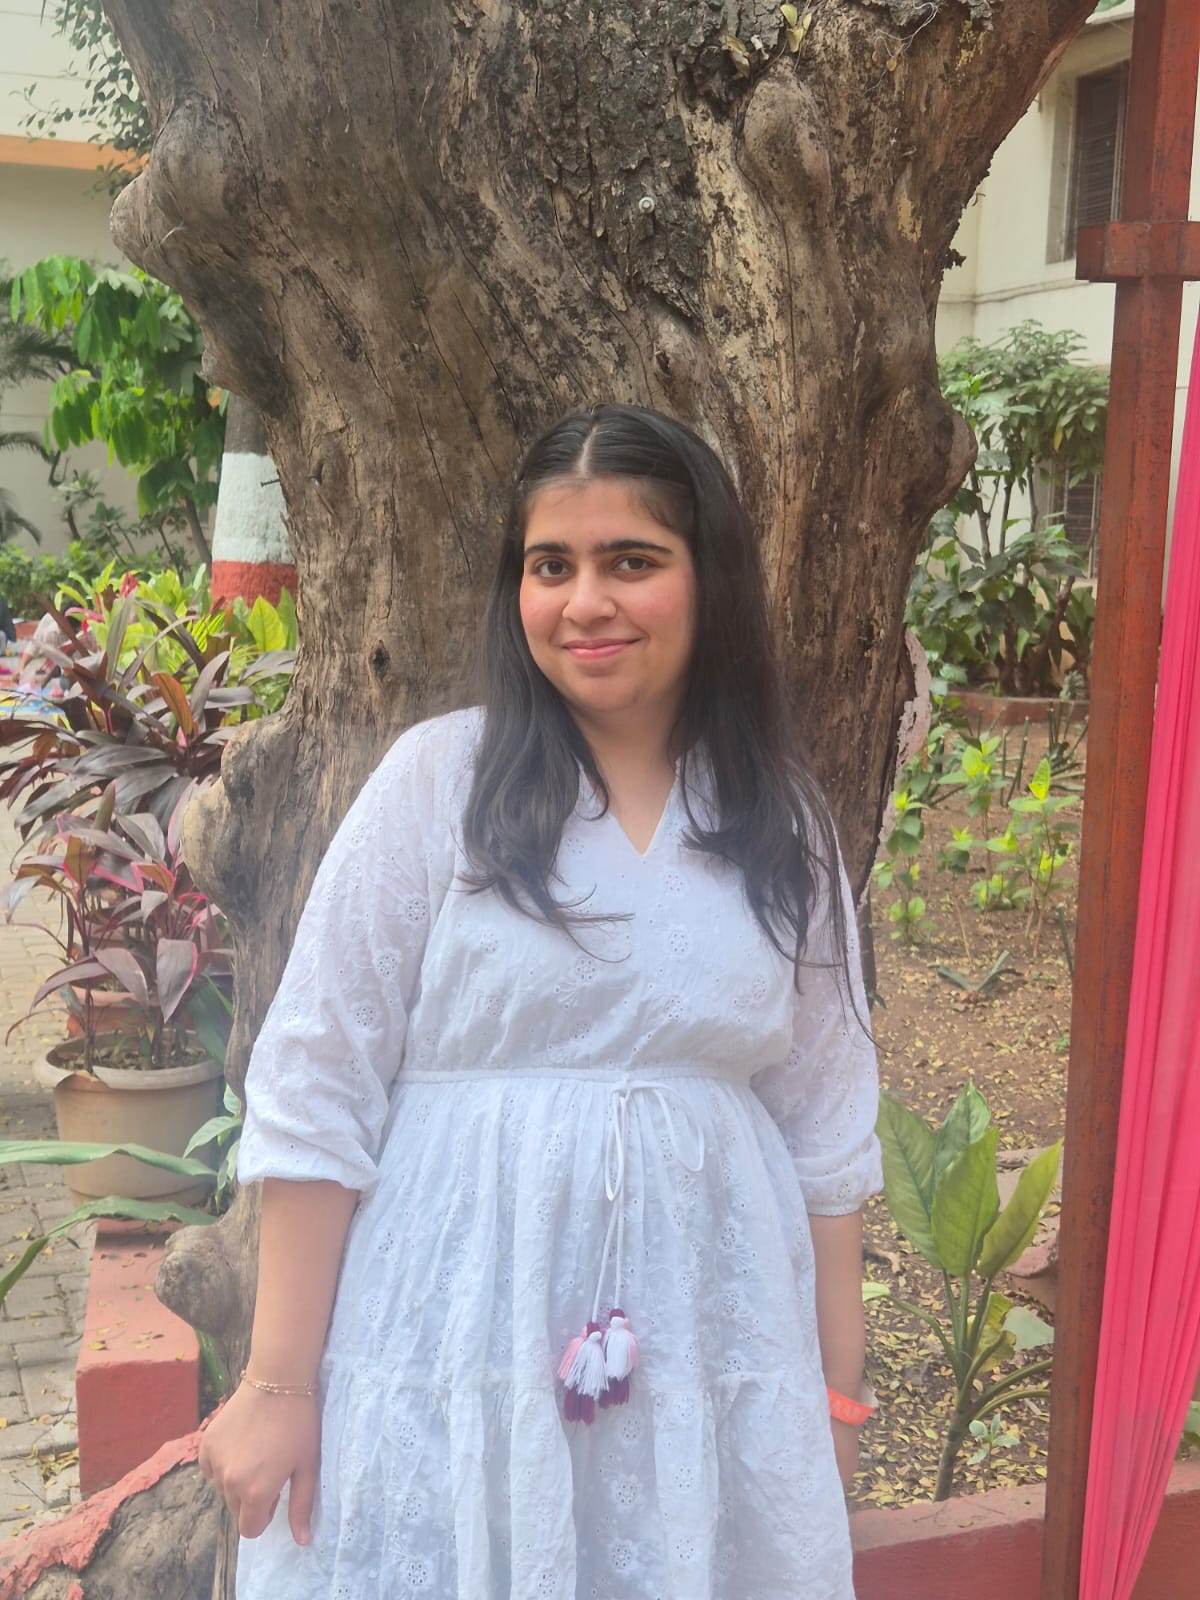
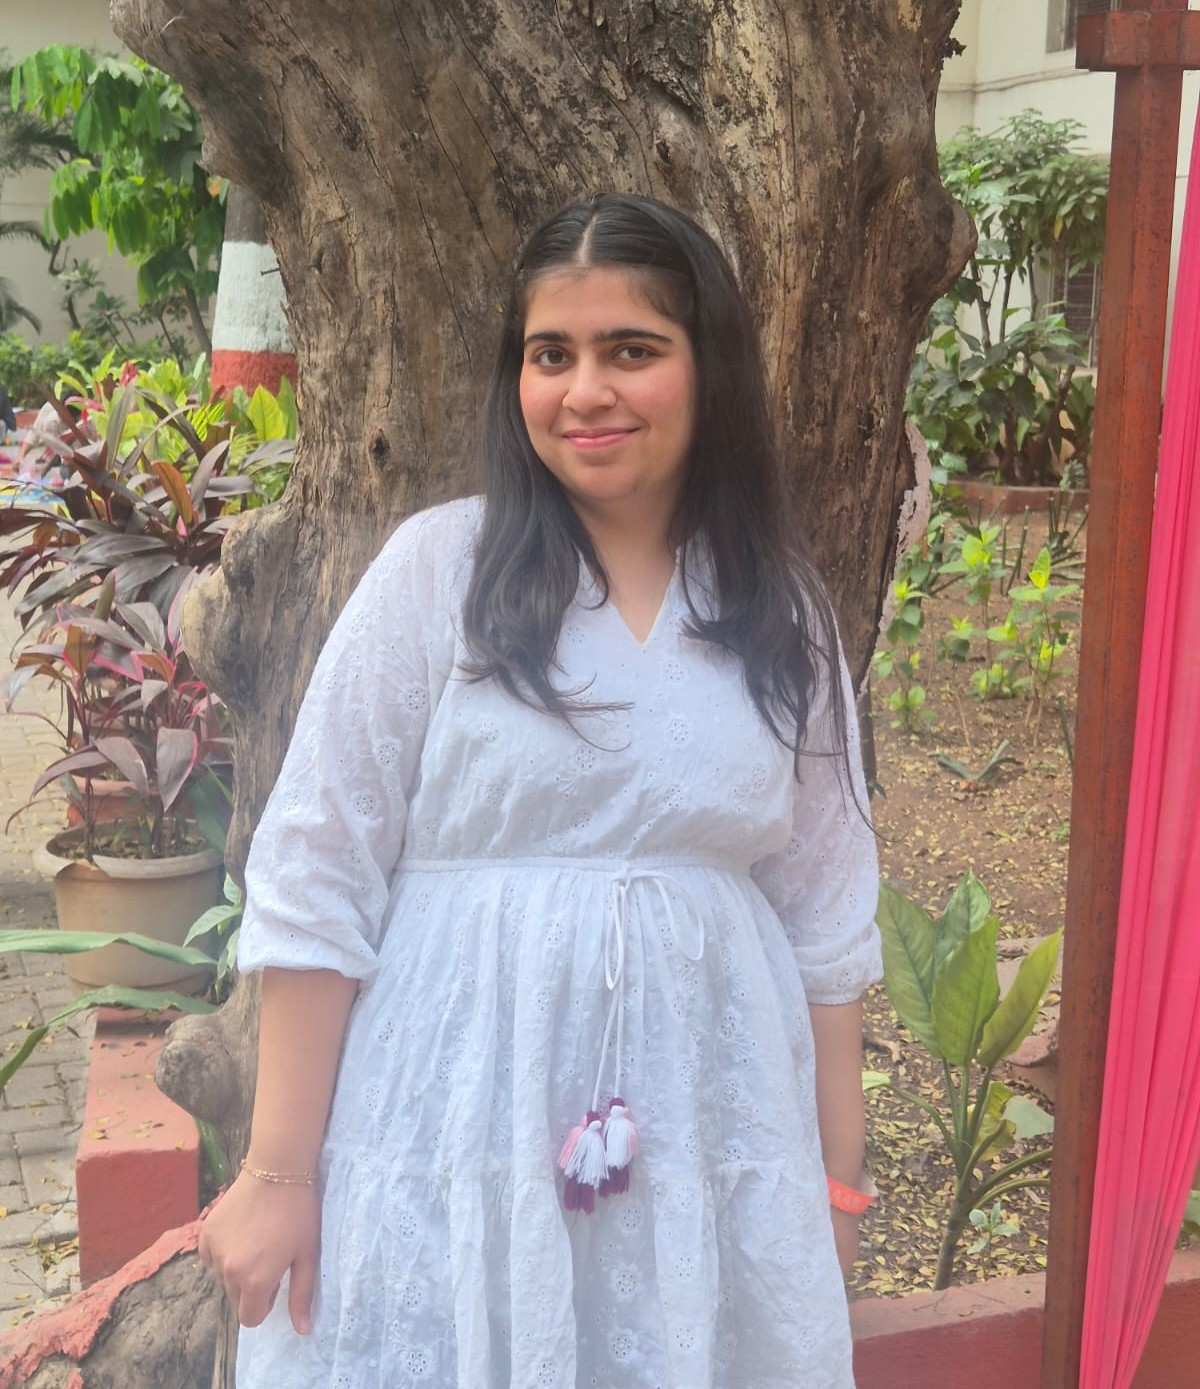
Updated team photos and minor font change

diff --git a/src/components/team/team-data.js b/src/components/team/team-data.js
@@ -101,7 +101,7 @@ export const developmentTeam = [
     id: 4,
     name: "Rucha Umbrajkar",
     role: "Developer",
-    imageUrl: "/src/assets/team/ruchaumbrajkar.jpeg",
+    imageUrl: "/src/assets/team/ruchaumbrajkar.png",
     instagram: "https://www.instagram.com/umbrajkarrucha?igsh=aTJucHRjNzl5dHZv",
     linkedin: "https://www.linkedin.com/in/rucha-umbrajkar-6b7661287",
     github: "",
@@ -123,10 +123,19 @@ export const developmentTeam = [
     instagram: "https://www.instagram.com/sam_mu7777/",
     linkedin: "https://www.linkedin.com/in/samruddhi-dargode-450573219/",
     github: "",
+    objectPosition: "center top",
   },
-  // Other Developers
   {
     id: 7,
+    name: "Sanika Kavade",
+    role: "Developer",
+    imageUrl: "/src/assets/team/sanikakavade.jpeg",
+    instagram: "https://www.instagram.com/sanika_k_15?igsh=OWFhM3h0cHNrNmpx",
+    linkedin: "https://www.linkedin.com/in/sanika-kavade-089334273?utm_source=share&utm_campaign=share_via&utm_content=profile&utm_medium=android_app",
+    github: "",
+  },
+  {
+    id: 8,
     name: "Vedika Kayangude",
     role: "Developer",
     imageUrl: "/src/assets/team/vedikakayangude.jpg",
@@ -135,7 +144,7 @@ export const developmentTeam = [
     github: "",
   },
   {
-    id: 8,
+    id: 9,
     name: "Anushka Ahirrao",
     role: "Developer",
     imageUrl: "/src/assets/team/anushkaahirrao.jpg",
@@ -144,7 +153,7 @@ export const developmentTeam = [
     github: "",
   },
   {
-    id: 9,
+    id: 10,
     name: "Richa Rathi",
     role: "Developer",
     imageUrl: "/src/assets/team/richarathi.jpeg",
@@ -153,7 +162,7 @@ export const developmentTeam = [
     github: "",
   },
   {
-    id: 10,
+    id: 11,
     name: "Shruti Bhavsar",
     role: "Developer",
     imageUrl: "/src/assets/team/shrutibhavsar.jpg",
@@ -162,21 +171,12 @@ export const developmentTeam = [
     github: "",
   },
   {
-    id: 11,
+    id: 12,
     name: "Mayuri Dandekar",
     role: "Developer",
     imageUrl: "/src/assets/team/mayuridandekar.jpeg",
     instagram: "https://www.instagram.com/mayxuri/",
     linkedin: "https://www.linkedin.com/in/mayuri-dandekar-2a37ba299",
-    github: "",
-  },
-  {
-    id: 12,
-    name: "Sanika Kavade",
-    role: "Developer",
-    imageUrl: "/src/assets/team/sanikakavade.jpeg",
-    instagram: "https://www.instagram.com/sanika_k_15?igsh=OWFhM3h0cHNrNmpx",
-    linkedin: "https://www.linkedin.com/in/sanika-kavade-089334273?utm_source=share&utm_campaign=share_via&utm_content=profile&utm_medium=android_app",
     github: "",
   },
   {
@@ -202,11 +202,10 @@ export const developmentTeam = [
     id: 15,
     name: "Radha Kulkarni",
     role: "Designer",
-    imageUrl: "/src/assets/team/radhakulkarni.jpg",
+    imageUrl: "/src/assets/team/radhakulkarni.png",
     instagram: "https://www.instagram.com/radhask_7?igsh=YzNwejE4aHo2ZHFj",
     linkedin: "https://www.linkedin.com/in/radha-kulkarni-291127338?utm_source=share&utm_campaign=share_via&utm_content=profile&utm_medium=android_app",
-    github: "",
-  },
+    github: "",    objectPosition: "center top",  },
   {
     id: 16,
     name: "Harshada Dhas",

diff --git a/src/components/team/MemberCard.jsx b/src/components/team/MemberCard.jsx
@@ -38,6 +38,7 @@ export default function MemberCard({ member, index, variant = "large" }) {
         <img
           src={member.imageUrl}
           alt={member.name}
+          style={{ objectPosition: member.objectPosition || 'center' }}
           className="w-full h-full object-cover grayscale group-hover:grayscale-0 transition-all duration-500 scale-100 group-hover:scale-105"
         />
 
@@ -46,7 +47,7 @@ export default function MemberCard({ member, index, variant = "large" }) {
           {/* Role badge */}
           <div className="flex items-center gap-2 mb-2">
             <div className="h-[2px] w-8 bg-primary shadow-[0_0_10px_#0FB9B1]" />
-            <span className="text-primary font-mono text-xs tracking-[0.2em] uppercase">
+            <span className="text-primary font-mono text-xs tracking-[0.2em] uppercase font-bold">
               {member.role}
             </span>
           </div>

diff --git a/src/pages/team.jsx b/src/pages/team.jsx
@@ -43,7 +43,7 @@ export default function Team() {
               <div className="h-[1px] w-16 bg-gradient-to-l from-transparent to-primary" />
             </div>
             <p className="text-muted-foreground text-sm font-mono tracking-wider">
-              // CORE_SYSTEM_ARCHITECTS
+              // ARCHITECTS_OF_INNOVATION
             </p>
           </div>
 
